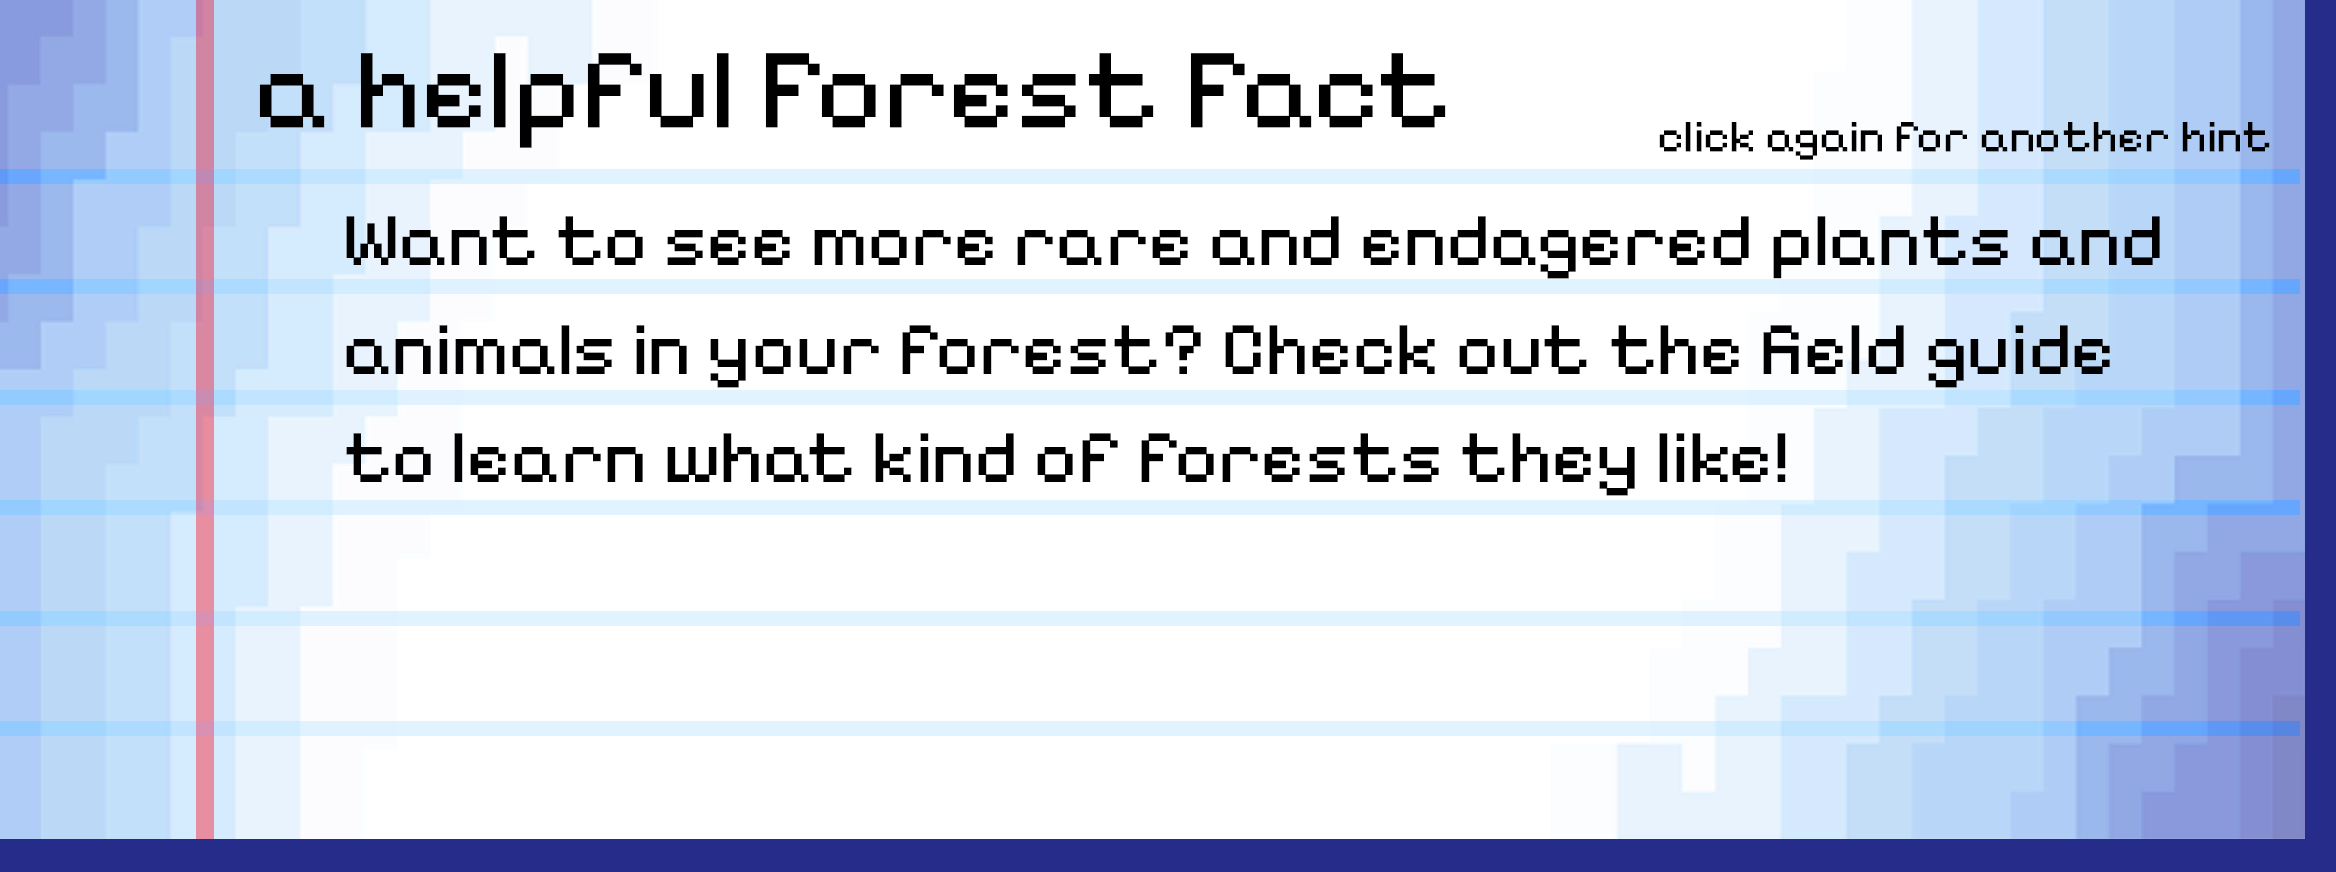
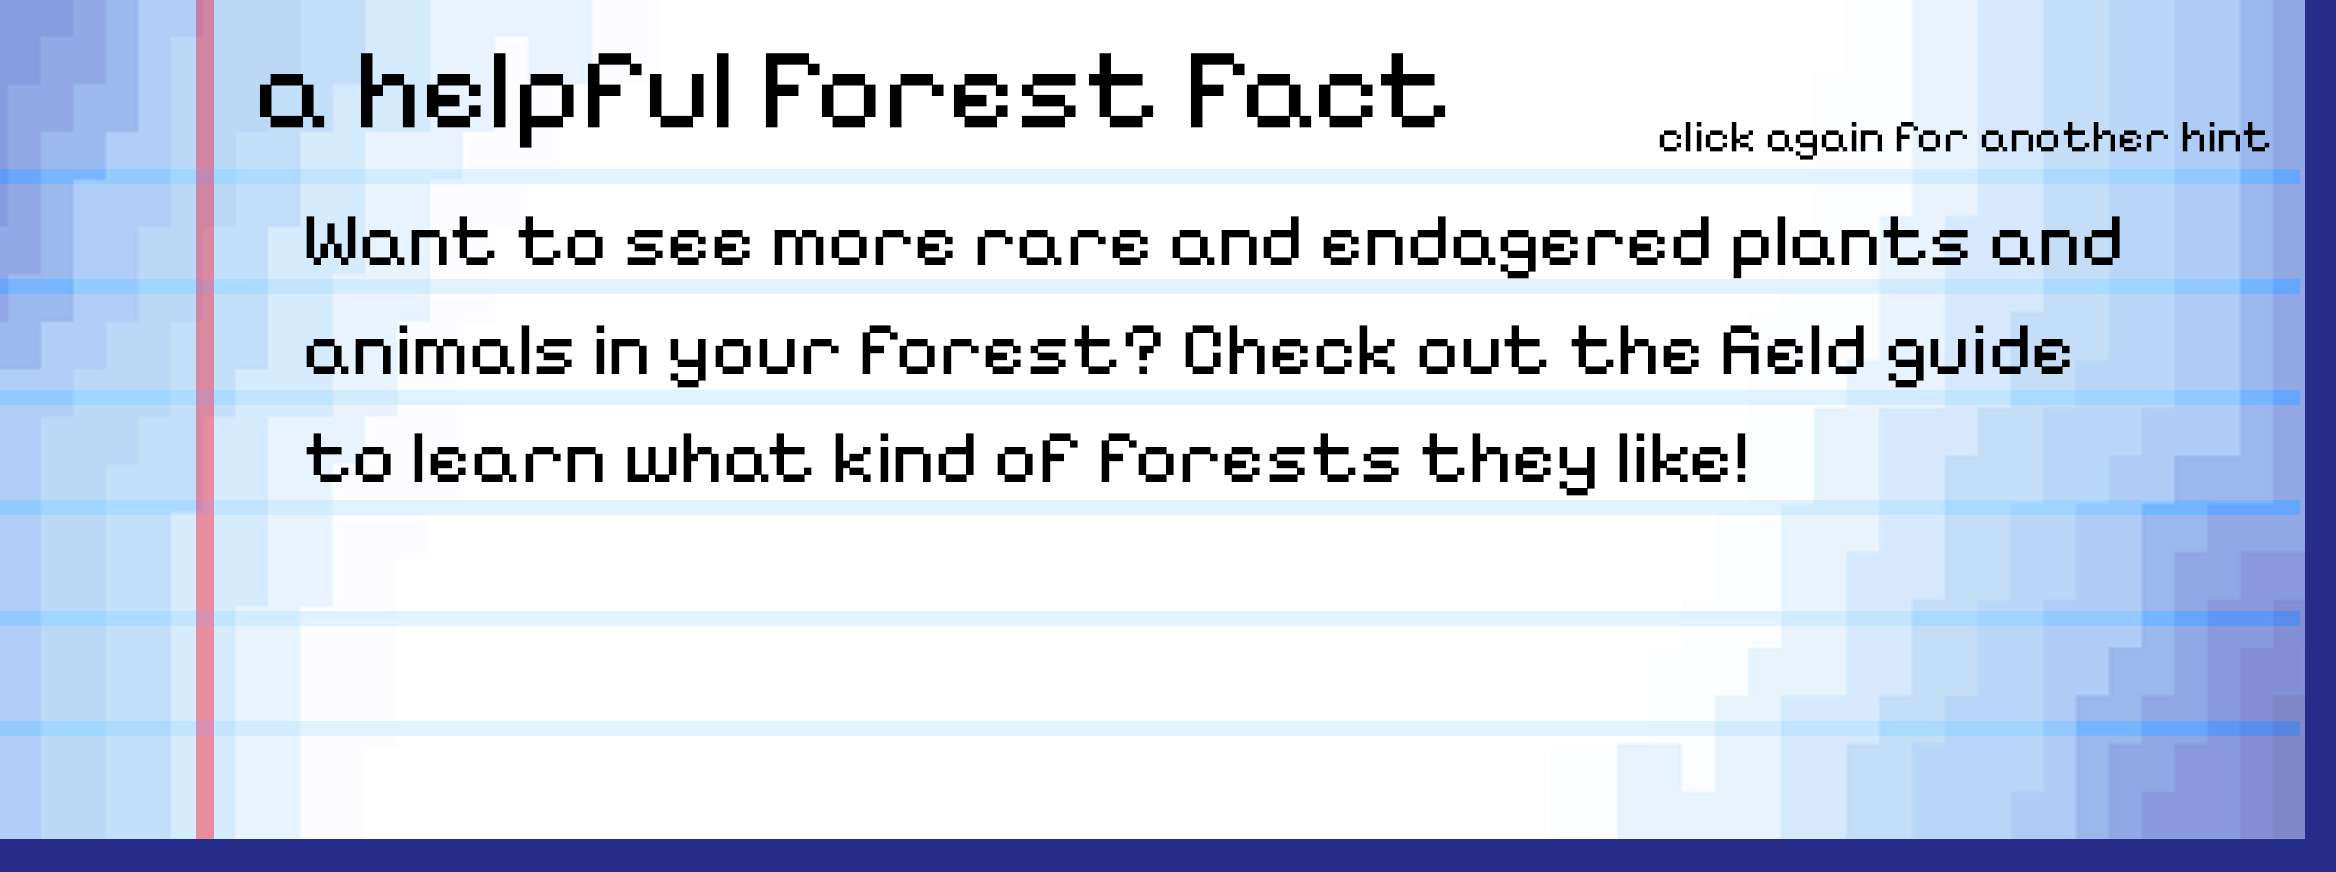
fix hint images

Changed region(s): [[0.125, 0.2477, 0.9375, 0.3406], [0.125, 0.3716, 0.9062, 0.4644], [0.125, 0.4954, 0.7812, 0.5883]]

diff --git a/src/gui.py b/src/gui.py
@@ -1866,7 +1866,9 @@ def main():
                        "assets/hint3.png", 
                        "assets/hint4.png",
                        "assets/hint5.png",
-                       "assets/hint6.png"]
+                       "assets/hint6.png",
+                       "assets/hint7.png",
+                       "assets/hint8.png"]
         if not hasattr(game, "hint_index"):
             game.hint_index = 0
         if not hasattr(game, "hint_overlay"):
@@ -1935,7 +1937,7 @@ def main():
 
             # Close button layered on the overlay (top-right)
             close_frame = tk.Frame(hint_overlay, bg="#FFFFFF", bd=0)
-            close_frame.place(relx=0.15, rely=0.86, anchor="ne")
+            close_frame.place(relx=0.14, rely=0.86, anchor="ne")
             tk.Button(
                 close_frame,
                 text="Close Hint",
